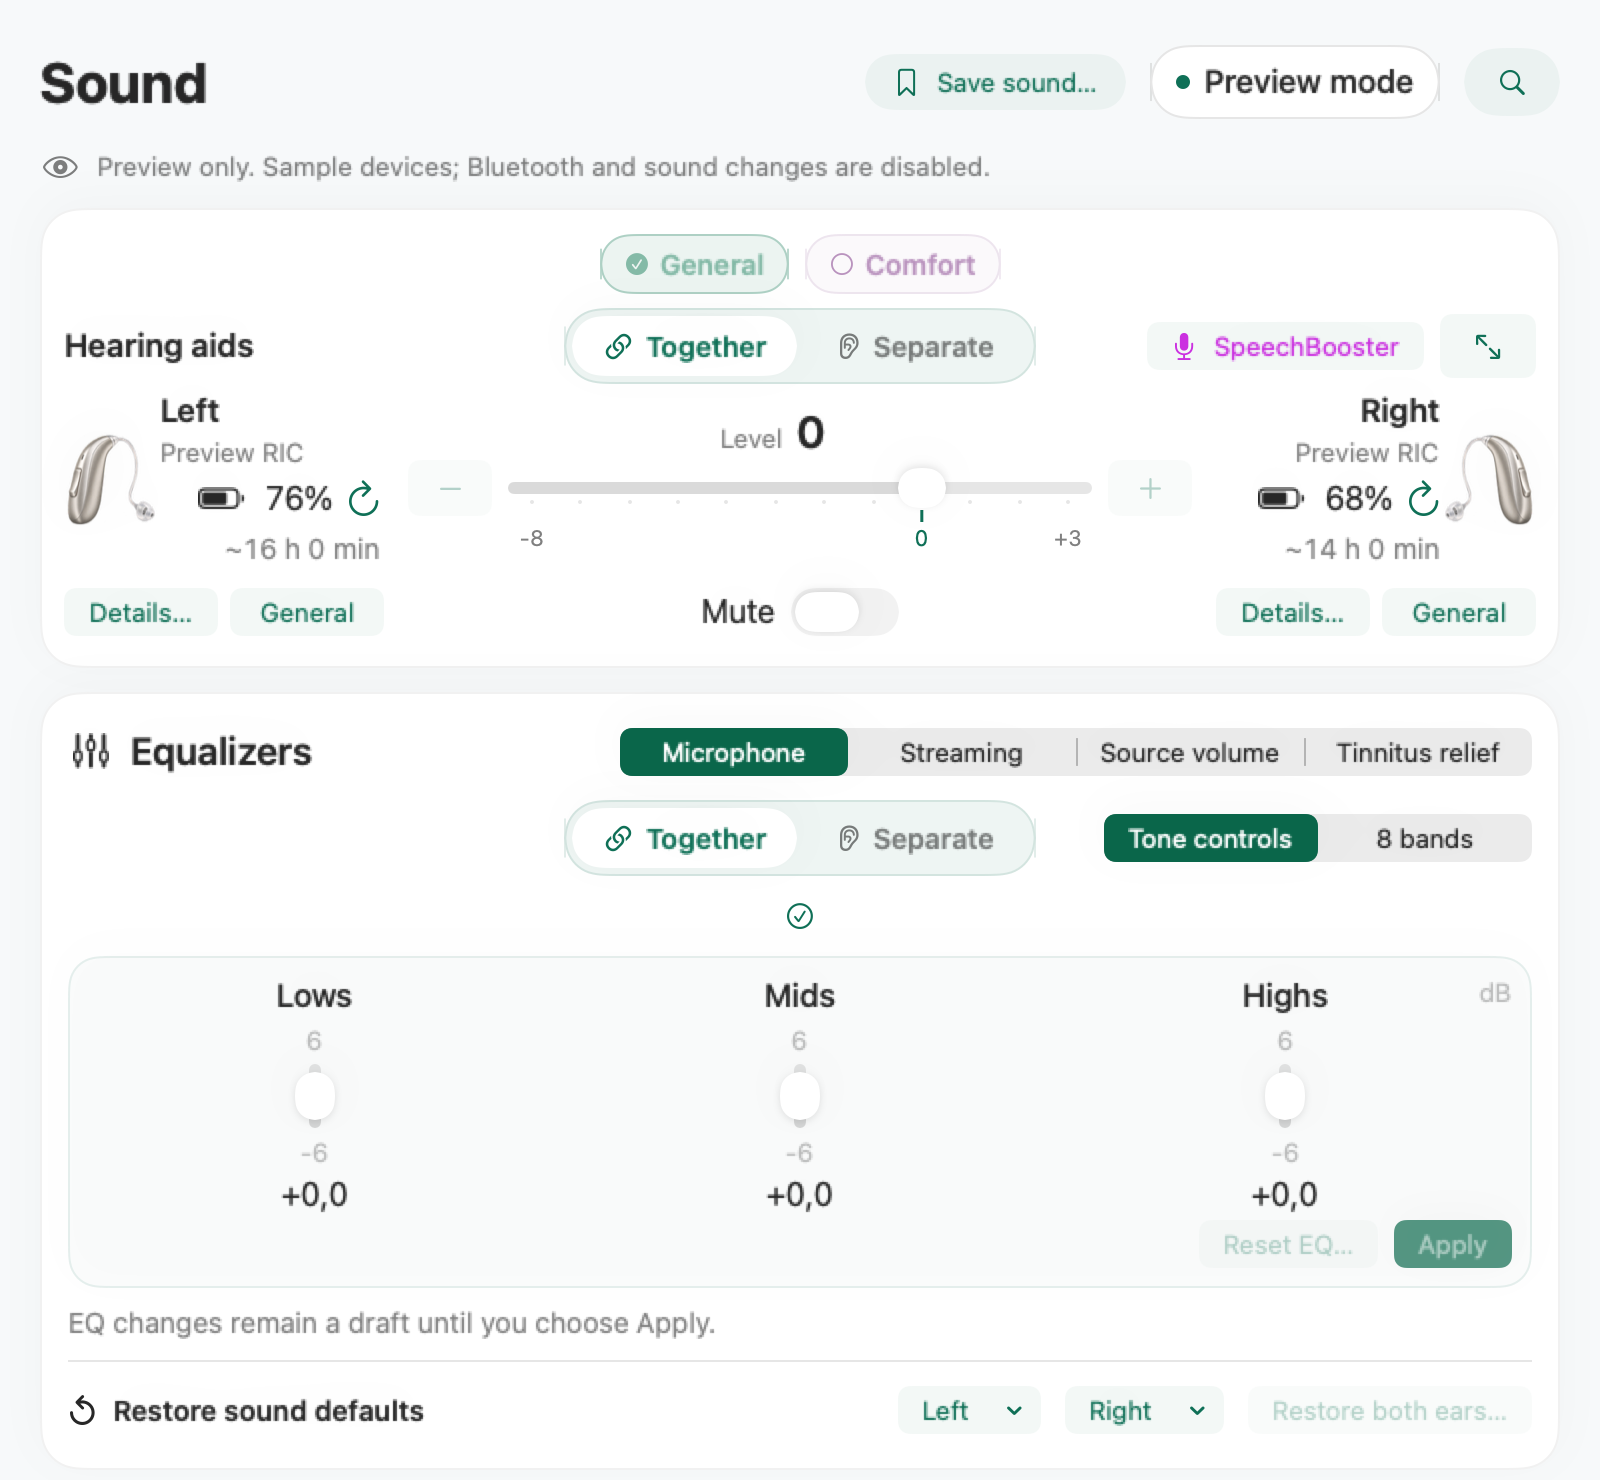
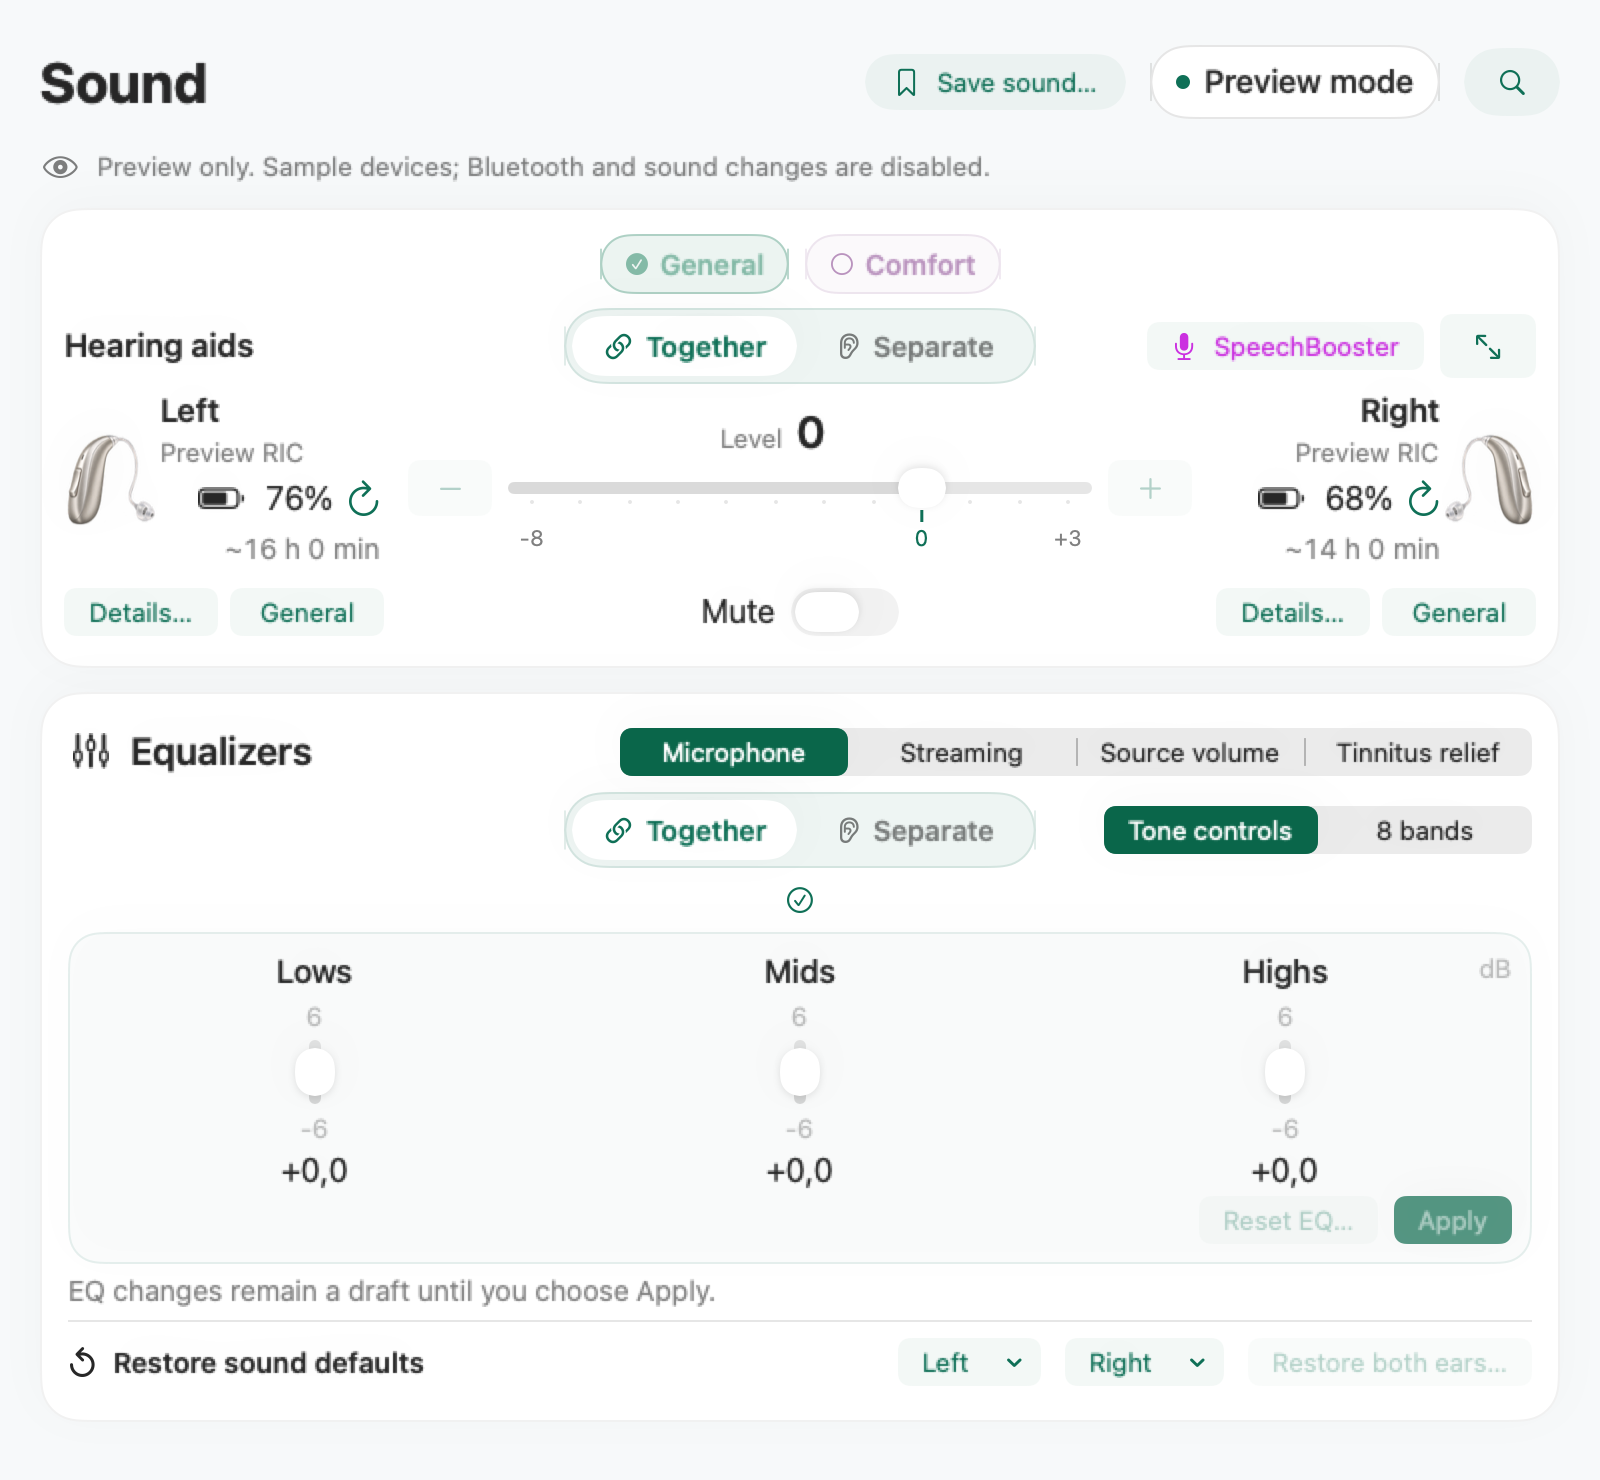
Fit compact sound controls on older macOS and stabilize deadline tests

diff --git a/Tests/AudifernTests/UTLSessionTests.swift b/Tests/AudifernTests/UTLSessionTests.swift
@@ -375,14 +375,21 @@ private func syntheticEUSInventory(access: String = "NVRAM") -> Data {
 @MainActor @Test func endUserDeadlineKeepsCompletedScopesAndStopsFurtherReads() async throws {
     let peer = SyntheticUTLPeer(); peer.advertiseEndUserSettings = true; peer.expectedSessionType = 4
     peer.endUserInventory = syntheticEUSInventory()
-    peer.suppressResponse = { handle, opcode, payload in handle == 14 && opcode == 2 && payload == Data([1, 0]) }
+    var now = Date(timeIntervalSince1970: 1_000)
+    let deadline = now.addingTimeInterval(1)
+    peer.suppressResponse = { handle, opcode, payload in
+        guard handle == 14 && opcode == 2 && payload == Data([1, 0]) else { return false }
+        // Expire at the unanswered second scope, independent of CI/main-actor
+        // scheduling. The first scope must still complete and be preserved.
+        now = deadline
+        return true
+    }
     let info = try UTLProtocol.GattInformation(data: Data([1, 0, 1, 0, 0, 244, 1, 1, 0x80, 0x80, 0x80, 0x80]))
-    let session = try UTLSession(info: info, physicalATTMTU: 247) { uuid, data in try await peer.write(uuid, data) }
+    let session = try UTLSession(info: info, physicalATTMTU: 247, acquisitionNow: { now }) { uuid, data in try await peer.write(uuid, data) }
     peer.session = session
     try await session.start(key: peer.key, purpose: .readOnlyBackup)
-    let deadline = Date().addingTimeInterval(1)
     let result = try await session.readEndUserSettings(deadline: deadline)
-    #expect(Date() >= deadline)
+    #expect(now == deadline)
     #expect(result.partial && result.data.inventory == peer.endUserInventory && result.data.metadata == Data([0xA0]))
     #expect(result.data.records.map { [$0.scope, $0.id] } == [[0, 0]])
     #expect(peer.serviceTrace.filter { $0.handle == 14 && $0.opcode == 2 }.map(\.payload) == [Data([0, 0]), Data([1, 0])])
@@ -395,12 +402,19 @@ private func syntheticEUSInventory(access: String = "NVRAM") -> Data {
 @MainActor @Test func endUserMetadataDeadlineKeepsInventoryWithoutStartingScopeReads() async throws {
     let peer = SyntheticUTLPeer(); peer.advertiseEndUserSettings = true; peer.expectedSessionType = 4
     peer.endUserInventory = syntheticEUSInventory()
-    peer.suppressResponse = { handle, opcode, _ in handle == 14 && opcode == 1 }
+    var now = Date(timeIntervalSince1970: 1_000)
+    let deadline = now.addingTimeInterval(1)
+    peer.suppressResponse = { handle, opcode, _ in
+        guard handle == 14 && opcode == 1 else { return false }
+        now = deadline
+        return true
+    }
     let info = try UTLProtocol.GattInformation(data: Data([1, 0, 1, 0, 0, 244, 1, 1, 0x80, 0x80, 0x80, 0x80]))
-    let session = try UTLSession(info: info, physicalATTMTU: 247) { uuid, data in try await peer.write(uuid, data) }
+    let session = try UTLSession(info: info, physicalATTMTU: 247, acquisitionNow: { now }) { uuid, data in try await peer.write(uuid, data) }
     peer.session = session
     try await session.start(key: peer.key, purpose: .readOnlyBackup)
-    let result = try await session.readEndUserSettings(deadline: Date().addingTimeInterval(0.5))
+    let result = try await session.readEndUserSettings(deadline: deadline)
+    #expect(now == deadline)
     #expect(result.partial && result.data.inventory == peer.endUserInventory)
     #expect(result.data.metadata == nil && result.data.records.isEmpty)
     #expect(peer.serviceTrace.filter { $0.handle == 14 }.map(\.opcode) == [0, 1])

diff --git a/Sources/Audifern/HearingAidControlsView.swift b/Sources/Audifern/HearingAidControlsView.swift
@@ -41,7 +41,7 @@ struct HearingAidControlsView: View {
     private var canLink: Bool { aids.count == 2 && Set(aids.map(\.id)) == Set(store.connectedPair.map(\.id)) }
 
     var body: some View {
-        VStack(alignment: .leading, spacing: embedded ? 8 : 20) {
+        VStack(alignment: .leading, spacing: embedded ? 4 : 20) {
             if mode == .sound {
                 if embedded {
                     HStack(spacing: 16) {

diff --git a/Sources/Audifern/PairedEqualizerView.swift b/Sources/Audifern/PairedEqualizerView.swift
@@ -85,7 +85,7 @@ struct PairedEqualizerView: View {
     }
 
     var body: some View {
-        VStack(spacing: compact ? 8 : 14) {
+        VStack(spacing: compact ? 4 : 14) {
             SoundSectionHeader {
                 EmptyView()
             } center: {

diff --git a/docs/releases/0.8.3.md b/docs/releases/0.8.3.md
@@ -9,6 +9,8 @@
 - Replace duplicate Together EQ read controls with one centered status and one
   refresh for both ears. Hover or click for individual results and errors.
   Separate retains per-ear status and refresh with the same disclosure.
+- Keep compact restore actions within the viewport with older macOS native
+  controls, without shrinking the faders or adding a scroll view.
 - Automatically refresh SpeechBooster on connection, program changes and
   replacement consumer sessions. Coalesce notifications and wait for existing
   device operations; failed reads expose Retry without a continuous retry loop.
